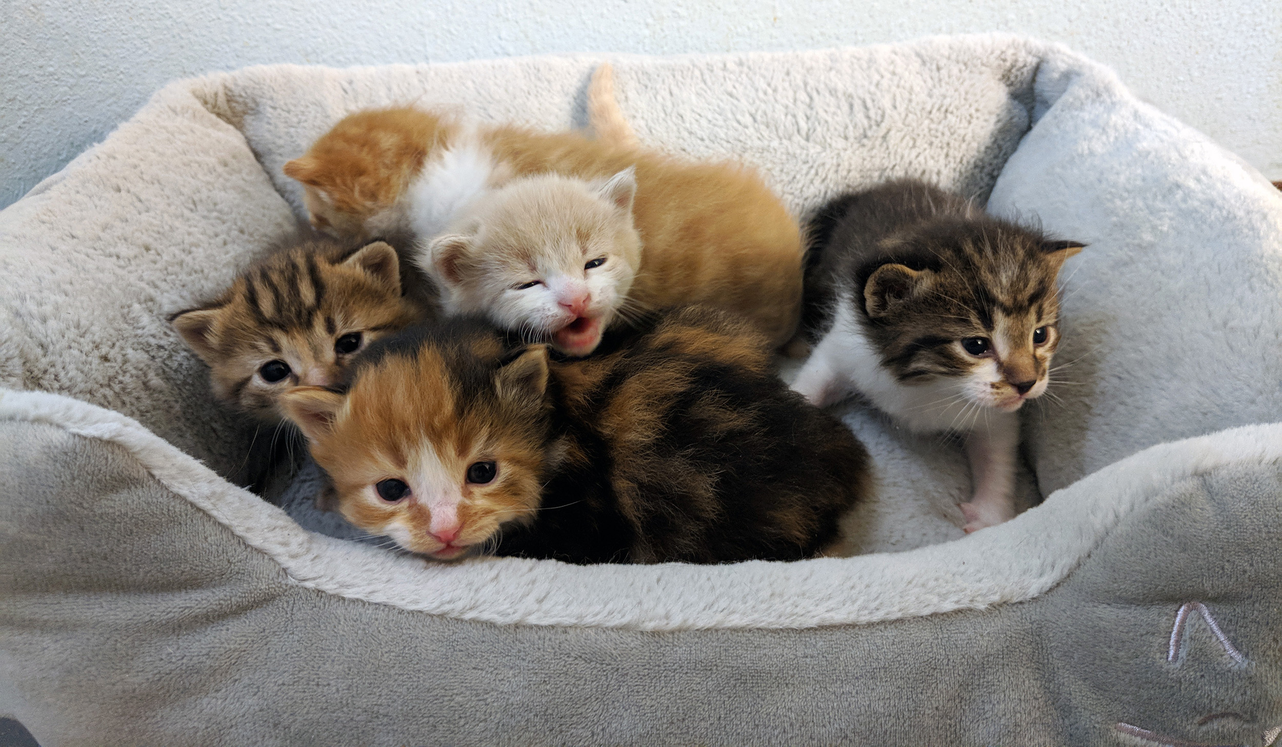
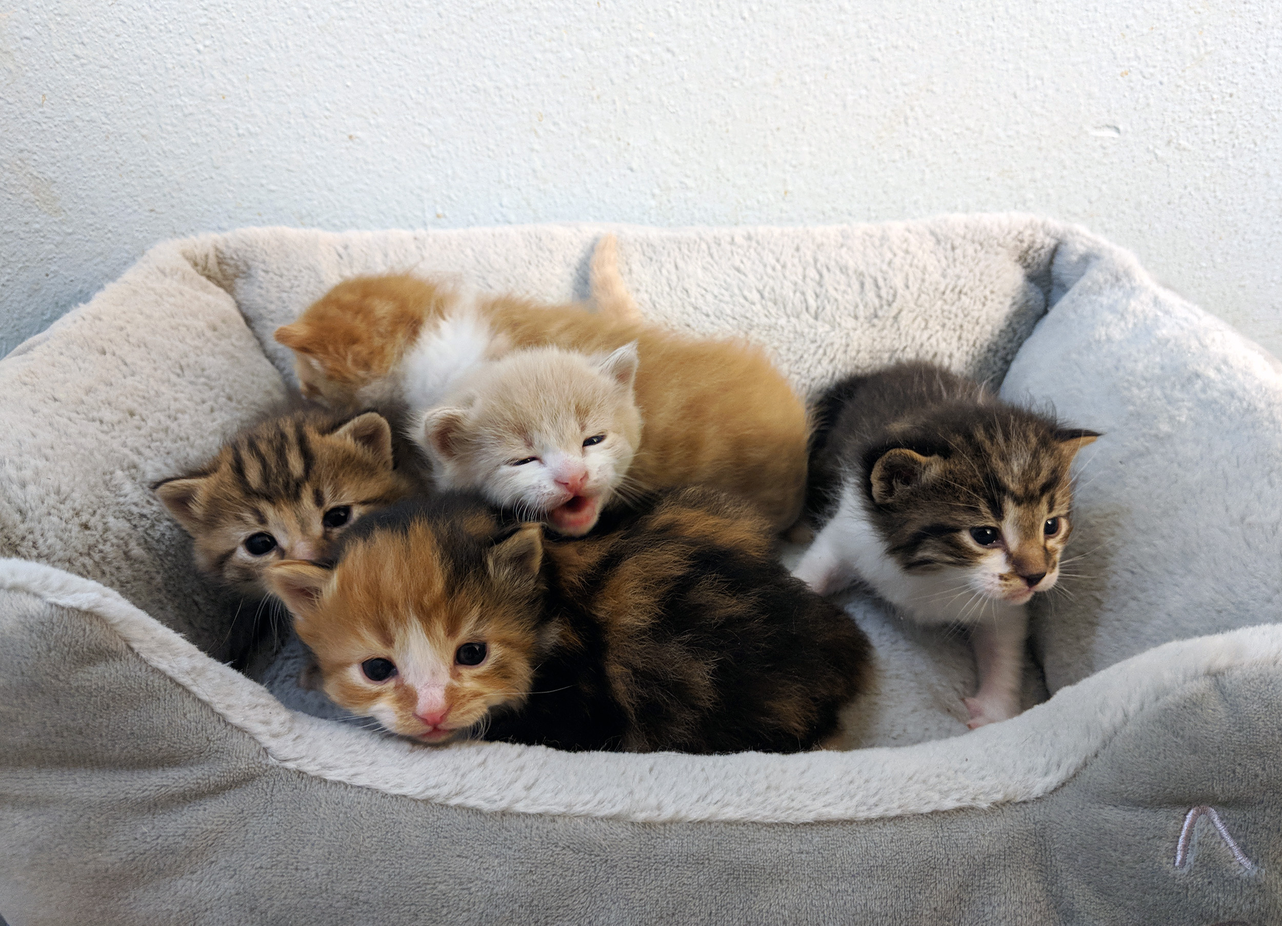
Image fixes

diff --git a/fostering.html b/fostering.html
@@ -111,7 +111,7 @@ height="0" width="0" style="display:none;visibility:hidden"></iframe></noscript>
 
           <div class="carousel-item" style="background-image: url('img/foster/IMG_20180325_111018.jpg');" data-pause="hover" data-keyboard="true" data-touch="true"></div>
 
-         <div class="carousel-item" style="background-image: url('img/volunteer/MVIMG_20180318_212258.jpg'); background-position: center;" data-pause="hover" data-keyboard="true" data-touch="true"></div>
+         <div class="carousel-item" style="background-image: url('img/volunteer/MVIMG_20180318_212258.jpg'); background-position: 50% 75%;" data-pause="hover" data-keyboard="true" data-touch="true"></div>
 
          <div class="carousel-item" style="background-image: url('img/Resized_20180329_162929.jpg');" data-pause="hover" data-keyboard="true" data-touch="true"></div>
 

diff --git a/volunteer.html b/volunteer.html
@@ -109,7 +109,7 @@ height="0" width="0" style="display:none;visibility:hidden"></iframe></noscript>
 
 
 
-         <div class="carousel-item" style="background-image: url('img/volunteer/MVIMG_20180318_212258.jpg'); background-position: center;" data-pause="hover" data-keyboard="true" data-touch="true"><div class="carousel-caption d-md-block">
+         <div class="carousel-item" style="background-image: url('img/volunteer/MVIMG_20180318_212258.jpg'); background-position: 50% 75%;" data-pause="hover" data-keyboard="true" data-touch="true"><div class="carousel-caption d-md-block">
            <div class="row align-items-center">
                 <div class="col-md-9">
             <h5 class="d-inline">Fostering</h5>
